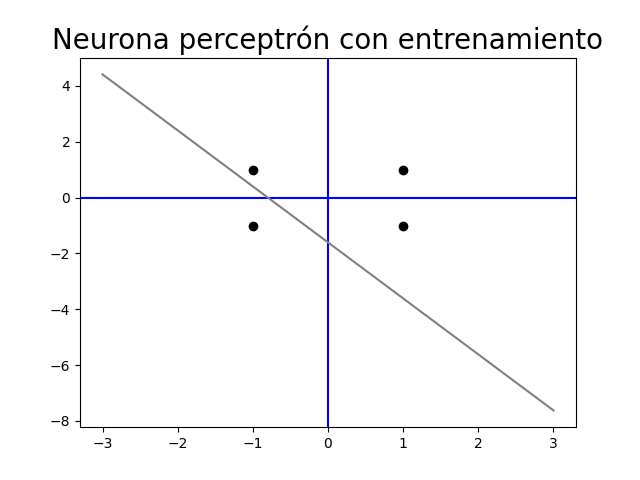
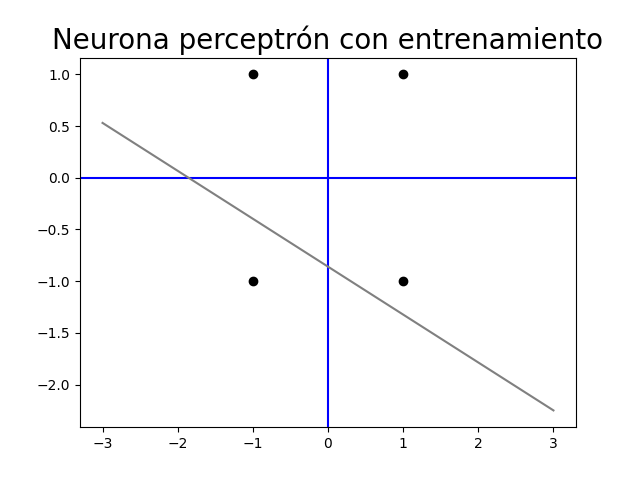
Clasificar entradas 1->verde, -1->rojo

diff --git a/PRACTICAS/PRACTICA_2/perceptron.py b/PRACTICAS/PRACTICA_2/perceptron.py
@@ -4,7 +4,12 @@ import csv
 
 def graph(w_values):
     plt.clf()
-    plt.scatter(X[0], X[1], color="black")
+    for i in range(len(y)):
+        if y[i] == 1:
+            color = 'green'
+        else:
+            color = 'red'
+    plt.scatter(X[0][i], X[1][i], color=color)
     plt.axhline(color="blue")
     plt.axvline(color="blue")
     x_values = [-3,3]
